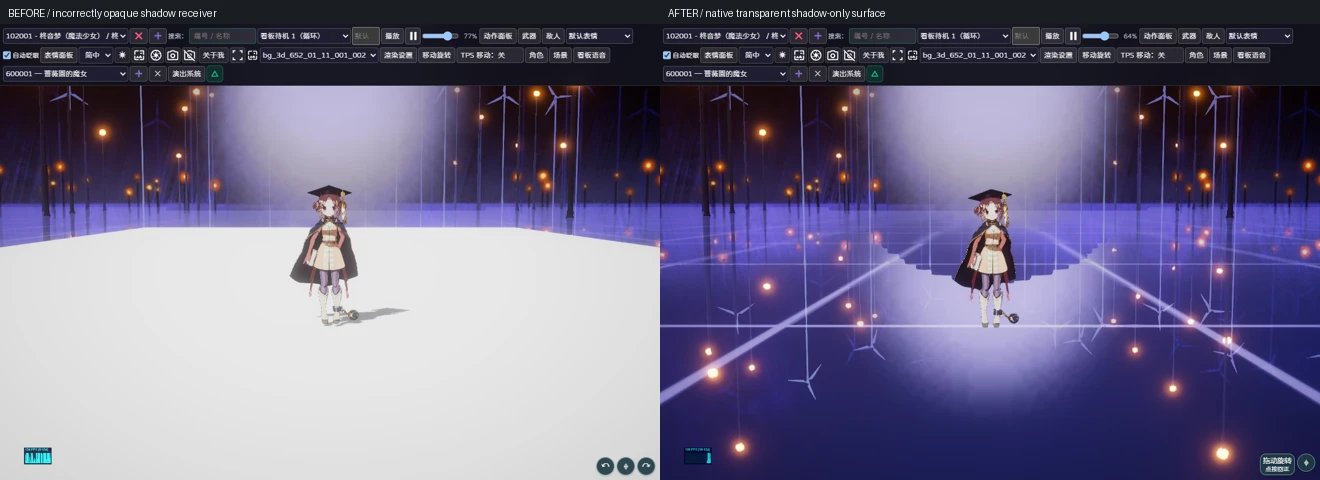
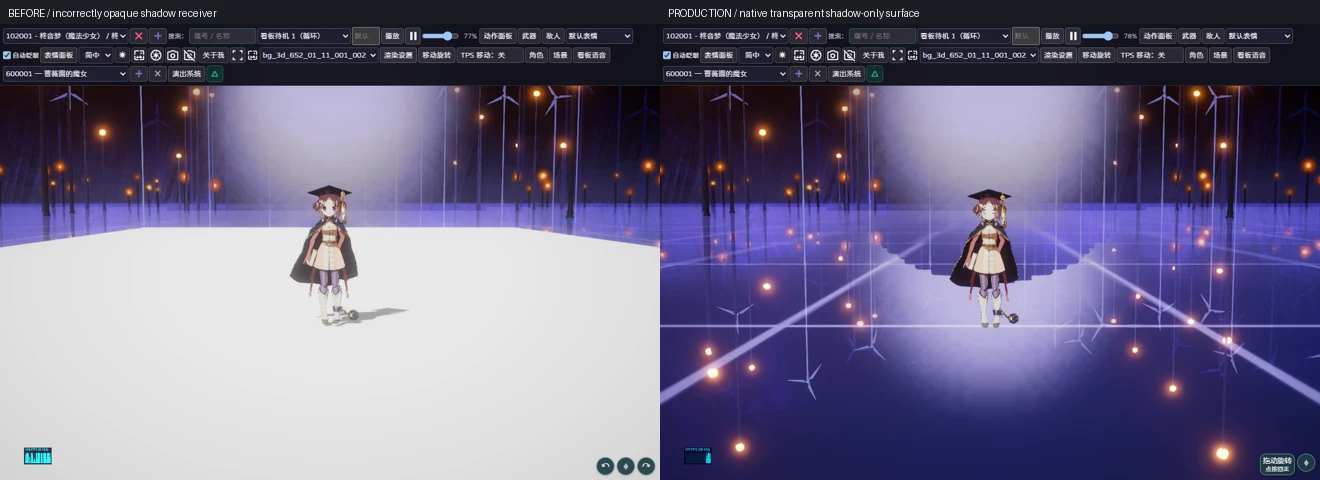
docs: verify production cloth studio and late-scene repair; retain remaining gaps

Changed region(s): [[0.7144, 0.4062, 0.7765, 0.625], [0.497, 0.0, 0.6833, 0.0625], [0.8386, 0.0625, 0.8697, 0.0938]]

diff --git a/docs/reports/2026-10-02-resume-scene-audit.md b/docs/reports/2026-10-02-resume-scene-audit.md
@@ -26,7 +26,7 @@
 
 证据索引：`assets/20261002-scene-surfaces/audit.json`。抽查器：`scripts/audit-late-scene-browser.mjs`；原始图、完整运行时 sceneProfilePackage 与源材质记录保留在 `artifacts/resume-20261002/scenes-baseline/`。本地可直接读取的 67 份已启用场景 profile 中，35 份包含本轮调查的三类 shader；这是材质引用统计，不等同 35 场景均已逐一修好，也不是 408 场景的完整分母。
 
-### 已实现、候选浏览器验证通过的共享修复
+### 已正式部署的共享修复
 
 **ShadowOnly 被错当作普通不透明白地板。** `dungeon-65000-bg-3d-652-01-11-001-002` 的 groundShadowOnly 原始材质来自精确原始 bundle；Shader PathID 为 -3296666697305076964，原生 GLES Universal Forward 和 blend/depth/cull 状态已提取。原生输出 RGB 为 _ShadowColor.rgb，alpha 为 `(1 - mainLightShadowAttenuation) * pow(1 - saturate(NdotV), _frenelPower)`；颜色值的 alpha=0 并不表示禁用阴影。原生通道是透明叠加、ZWrite Off，而旧绑定用 lit/opaque 白色载体遮住了真正地面。
 
@@ -48,4 +48,8 @@
 
 候选网站回归 542/542，通过且无跳过；TypeScript 通过。相较接续基线 507 项增加特殊表面、主光级联、粒子混合与体积光的覆盖。附带修正旧级联测试仅匹配 LF 的文本正则，兼容 Windows CRLF；四个固定半像素采样断言完整保留，没有修改主光阴影实现或弱化测试。
 
-场景候选正式部署及版本将在本报告下一次提交补齐。连续碰撞原始指标、生产录制及镜头日志位于 `artifacts/resume-20261002/`。
+正式应用提交 **9c89be323c1f72bd730764801df7f75c29f48eaa**，Cloudflare 生产部署 **703e4c42**。原正式域名复测上述 7 场景，实际场景 ID 均匹配，无加载/页面/着色器/HTTP 异常；白地板的生产图已查看并更新前后对比图。HTML、版本及关联 JS/CSS 共 19 项文件摘要与本地构建完全一致。542 网站回归、类型及 build:deploy 全部通过。
+
+仅对两类已验证表面作共享分派，未改角色动作、物理、节点、录制、镜头源文件。未把云层、612 烟雾以及其余未逐一验收的场景标成完成。生产复验结构数据写入 audit.json 的 production 字段。连续碰撞原始指标、生产录制及镜头日志位于 `artifacts/resume-20261002/`。
+
+接续入口仍为本报告的“明确保留的视觉缺口”；三维噪声及 shader 原始提取结果在同目录的 cloud-programs/、cloud-shader-index.json、cloud-volume-metadata.json。后续修复须基于原始绑定、正确体素解码与 native 算子，不以随机噪声、统一提亮或隐藏场景代替。

diff --git a/docs/reports/2026-10-02-studio-recording.md b/docs/reports/2026-10-02-studio-recording.md
@@ -38,3 +38,8 @@ scripts/site-smoke-studio.mjs：真实键盘走跑A/B录制、真实鼠标镜头
 ### 正式站冷启动导入竞态
 
 第一次正式站复验中，已加载角色但场景目录尚未填入选择器时立即导入五轨项目，错误地将 `sky-reference` 报为不可加载。先前本机同样流程因目录完成较快而通过，不能替代此真实冷启动失败。现将原有场景初始化（目录填充与初始场景加载）收敛为唯一Promise；项目导入先等待该屏障，再验证加载资格及实际场景提交。不会重复注册事件，也不会让随后初始天空覆盖项目指定场景。浏览器项目验收现在故意拦住场景目录请求，先发起导入，确认其等待而不报错，释放后恢复两名新UUID角色与镜头并比对四个时间点。原首次生产失败日志保留。
+
+
+## 中断接续后的正式回执
+
+2026-10-02 原正式域名以7c5d5d1重新完成11组实际录制/项目/布局与7组跟进操作，新页导入及第二次场景选择通过。旧身体避让物理已由单向衣料层取代；物理独立关闭不影响录制。最终应用9c89be3、部署703e4c42；交接与未完成场景列表见 `2026-10-02-resume-scene-audit.md`。

diff --git a/docs/reports/2026-10-02-one-way-garment-contacts.md b/docs/reports/2026-10-02-one-way-garment-contacts.md
@@ -42,3 +42,8 @@
 原来改变上臂的基线证据见 `baseline-body-violation.json`。四个实际模型（102001、101901、100101、100201）的行走/奔跑/跳跃、关闭恢复和姿态重力共 19 组浏览器验收通过，见 `local-model-review.json`。所有姿态开关检查不再豁免上臂。
 
 生产提交、部署与最终发布复验：待本轮发布后追加。
+
+
+## 中断接续后的正式回执
+
+2026-10-02 接续已完成：7c5d5d1 推送并发布 f7354622，生产 19 组物理与 6 组镜头实际验收通过。随后场景材质修复 9c89be3 / 703e4c42 保持本层源代码不变。Nemu/Touka 连续五种状态身体额外改变量为0；有界残余及非实体手机性能认证的限制保留。详见 `2026-10-02-resume-scene-audit.md`。
